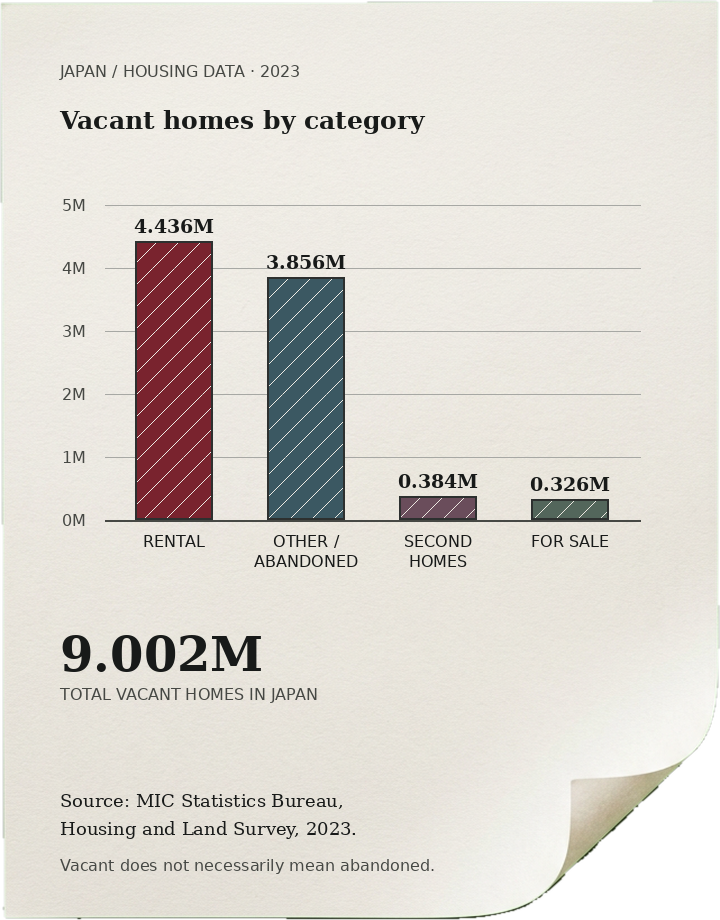
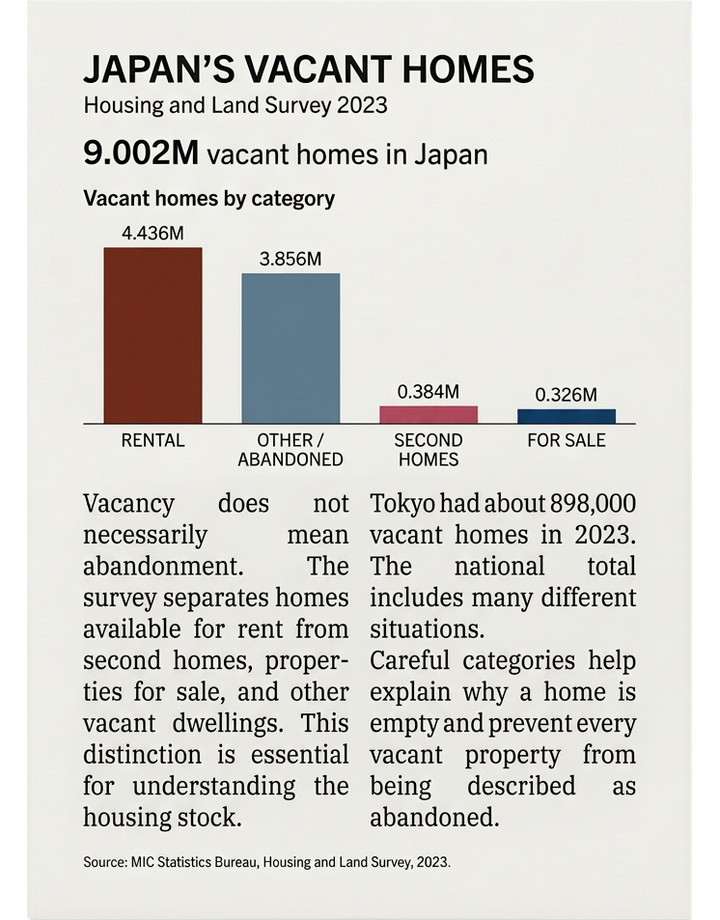
Use fully generated dense flat papers for shot 8

diff --git a/src/LabPaperThrow.tsx b/src/LabPaperThrow.tsx
@@ -15,10 +15,10 @@ export const LabPaperThrow: React.FC = () => {
   const firstTransform = `translate3d(${250 - 950 * (1 - first)}px, ${90 - 800 * (1 - first)}px, 0) rotate(${-7 - 25 * (1 - first)}deg)`;
   const secondTransform = `translate3d(${800 + 900 * (1 - second)}px, ${60 - 850 * (1 - second)}px, 0) rotate(${5 + 25 * (1 - second)}deg)`;
 
-  const clipLeft = 55;
-  const clipWidth = 540;
+  const clipLeft = 85;
+  const clipWidth = 360;
   const clipRight = 720 - (clipLeft + clipWidth * sweep);
-  const highlightClip = `inset(560px ${clipRight}px 304px ${clipLeft}px)`;
+  const highlightClip = `inset(575px ${clipRight}px 308px ${clipLeft}px)`;
 
   return (
     <AbsoluteFill style={{backgroundColor: '#050505', overflow: 'hidden'}}>

diff --git a/scripts/prepare_lab8_generated.py b/scripts/prepare_lab8_generated.py
@@ -1,0 +1,91 @@
+from pathlib import Path
+import random
+import cv2
+import numpy as np
+from PIL import Image, ImageDraw, ImageFilter
+
+ROOT = Path(__file__).resolve().parents[1]
+PUBLIC = ROOT / 'public'
+PW, PH = 720, 920
+
+
+def key_generated_sheet(filename: str):
+    """Only cut out the generated paper; never draw or typeset the paper."""
+    img = Image.open(PUBLIC / filename).convert('RGB')
+    arr = np.array(img)
+    r, g, b = arr[..., 0], arr[..., 1], arr[..., 2]
+    green = (g.astype(np.int16) - np.maximum(r, b).astype(np.int16) > 45) & (g > 105)
+    mask = np.where(~green, 255, 0).astype(np.uint8)
+    contours, _ = cv2.findContours(mask, cv2.RETR_EXTERNAL, cv2.CHAIN_APPROX_SIMPLE)
+    largest = max(contours, key=cv2.contourArea)
+    mask = np.zeros_like(mask)
+    cv2.drawContours(mask, [largest], -1, 255, -1)
+    mask = cv2.morphologyEx(mask, cv2.MORPH_CLOSE, np.ones((7, 7), np.uint8))
+    alpha = cv2.GaussianBlur(mask, (3, 3), 0.65)
+    cap = np.clip(np.maximum(r, b).astype(np.int16) + 12, 0, 255).astype(np.uint8)
+    arr[..., 1] = np.minimum(g, cap).astype(np.uint8)
+    rgba = np.dstack([arr, alpha])
+    ys, xs = np.where(alpha > 8)
+    left, top, right, bottom = xs.min(), ys.min(), xs.max() + 1, ys.max() + 1
+    return Image.fromarray(rgba[top:bottom, left:right], 'RGBA'), (left, top)
+
+
+def fit_without_distortion(sheet: Image.Image):
+    scale = min(PW / sheet.width, PH / sheet.height)
+    size = (round(sheet.width * scale), round(sheet.height * scale))
+    resized = sheet.resize(size, Image.Resampling.LANCZOS)
+    canvas = Image.new('RGBA', (PW, PH), (0, 0, 0, 0))
+    offset = ((PW - size[0]) // 2, (PH - size[1]) // 2)
+    canvas.alpha_composite(resized, offset)
+    return canvas, offset, scale
+
+
+paper1_raw, _ = key_generated_sheet('lab8-full-paper-a-source.png')
+paper1, _, _ = fit_without_distortion(paper1_raw)
+paper1.save(PUBLIC / 'lab8-paper1.png')
+
+paper2_raw, crop_origin = key_generated_sheet('lab8-full-paper-b-source.png')
+paper2, offset, scale = fit_without_distortion(paper2_raw)
+
+# Measured ink bounds of the generated sentence in the original generated image.
+# Mapping them through the cutout transform keeps the effect on the printed ink.
+sx0, sy0, sx1, sy1 = 163, 719, 539, 737
+target_x = offset[0] + (sx0 - crop_origin[0]) * scale
+target_y = offset[1] + (sy0 - crop_origin[1]) * scale
+target_w = (sx1 - sx0 + 1) * scale
+target_bottom = offset[1] + (sy1 - crop_origin[1]) * scale
+print(f'TARGET_X={target_x:.2f};TARGET_Y={target_y:.2f};TARGET_W={target_w:.2f};TARGET_BOTTOM={target_bottom:.2f}')
+
+# Relight the existing generated pixels only. No text, page or chart is drawn.
+rgb = np.array(paper2.convert('RGB')).astype(np.float32)
+yy, xx = np.mgrid[0:PH, 0:PW]
+field = 0.52 + 1.58 * np.exp(-((yy - (target_y + 10)) / 190.0) ** 2 - ((xx - (target_x + target_w / 2)) / 540.0) ** 2)
+lit = np.clip(rgb * field[..., None], 0, 255).astype(np.uint8)
+lit_img = Image.fromarray(lit, 'RGB').convert('RGBA')
+lit_img.putalpha(paper2.getchannel('A'))
+paper2.save(PUBLIC / 'lab8-paper2-clean.png')
+lit_img.save(PUBLIC / 'lab8-paper2-lit.png')
+
+# A separate irregular yellow marker stroke; the original generated dark ink is
+# restored over it rather than retypeset.
+stroke = Image.new('RGBA', (PW, PH), (0, 0, 0, 0))
+sd = ImageDraw.Draw(stroke)
+rnd = random.Random(41)
+x0, x1 = target_x - 8, target_x + target_w + 12
+y0, y1 = target_y - 5, target_bottom + 6
+points_top = [(x0 + (x1 - x0) * i / 24, y0 + rnd.uniform(-1.8, 1.8)) for i in range(25)]
+points_bottom = [(x0 + (x1 - x0) * i / 24, y1 + rnd.uniform(-2.0, 2.0)) for i in reversed(range(25))]
+sd.polygon(points_top + points_bottom, fill=(249, 237, 20, 215))
+stroke = stroke.filter(ImageFilter.GaussianBlur(0.4))
+stroke.save(PUBLIC / 'lab8-highlight-stroke.png')
+
+highlighted = Image.alpha_composite(lit_img, stroke)
+gray = np.array(lit_img.convert('L')).astype(np.float32)
+stroke_alpha = np.array(stroke.getchannel('A')).astype(np.float32) / 255.0
+ink_alpha = np.clip((155.0 - gray) * 2.4, 0, 255) * stroke_alpha
+ink = lit_img.copy()
+ink.putalpha(Image.fromarray(ink_alpha.astype(np.uint8), 'L'))
+highlighted = Image.alpha_composite(highlighted, ink)
+content = highlighted.copy()
+content.putalpha(stroke.getchannel('A'))
+content.save(PUBLIC / 'lab8-highlight-content.png')

diff --git a/shot8-licenses.md b/shot8-licenses.md
@@ -1,20 +1,22 @@
-# Shot 08 — original paper throw, relighting and highlight
+# Shot 08 — fully generated dense papers, relighting and highlight
 
 Prepared for the short sample on 2026-11-02.
 
 ## Original production imagery
 
-No user-supplied reference image, reference pixels or reference-derived image is used in this version. The three production sources were generated independently from text prompts without an input image:
+No user-supplied reference image, reference pixels or reference-derived image is used. The production sources were generated independently without an input reference image:
 
 - `lab8-desk-source.png`: original dark walnut desk.
-- `lab8-paper-a-source.png`: original blank curled sheet on a chroma background.
-- `lab8-paper-b-source.png`: original blank bent sheet on a chroma background.
+- `lab8-full-paper-a-source.png`: a complete generated printed report, including its chart, dense body text, numerical labels and source line.
+- `lab8-full-paper-b-source.png`: a complete generated printed article, including its dense paragraphs and the selected sentence.
 
-`scripts/build_lab8_papers.py` removes the chroma backgrounds, rasterizes original page layouts onto the two sheets and bakes a soft multiplicative exposure change into the second sheet. It does not add a white lighting stripe or screen-blended overlay.
+Both sheets are flat rectangles with square corners. Neither has a folded, curled or dog-eared lower corner. The paper, typography, chart and article layout are part of the generated images; they are not programmatically constructed or typeset.
 
-## Verified data and original page content
+`scripts/prepare_lab8_generated.py` only cuts the finished sheets out of their chroma backgrounds, scales them without distortion, bakes a soft multiplicative exposure change into the second sheet, and prepares the separate yellow marker effect. It does not draw a paper, chart, paragraph or selected sentence.
 
-The two original pages use the fact-checked MIC Statistics Bureau, Housing and Land Survey 2023 values:
+## Verified data visible in the generated pages
+
+The pages use the fact-checked MIC Statistics Bureau, Housing and Land Survey 2023 values:
 
 - Japan vacant homes: **9.002 million**.
 - Rental units: **4.436 million**.
@@ -23,7 +25,7 @@ The two original pages use the fact-checked MIC Statistics Bureau, Housing and L
 - For sale: **326,000**.
 - Tokyo: about **898,000 vacant homes**, or **10.9%** of its housing stock.
 
-The first sheet contains the proportional category chart and source line. The second sheet explains that vacancy is not necessarily abandonment. The highlighted sentence is original wording: **“Tokyo’s vacancy rate was 10.9% in 2023.”** Text faces rasterized into the sheets are DejaVu Serif and Montserrat. No third-party report scan is redistributed.
+The highlighted sentence generated into the second sheet is: **“Tokyo’s vacancy rate was 10.9% in 2023.”** Both sheets carry the MIC source line. No third-party report scan is redistributed.
 
 ## Output assets
 
@@ -34,7 +36,7 @@ The first sheet contains the proportional category chart and source line. The se
 - `lab8-highlight-stroke.png`
 - `lab8-highlight-content.png`
 
-The transparent highlight-content asset contains the yellow stroke and original dark ink, so the sweep never washes out the selected sentence.
+The transparent highlight-content asset contains the yellow stroke and the original generated dark ink, so the sweep does not wash out the selected sentence.
 
 ## Animation scope
 
